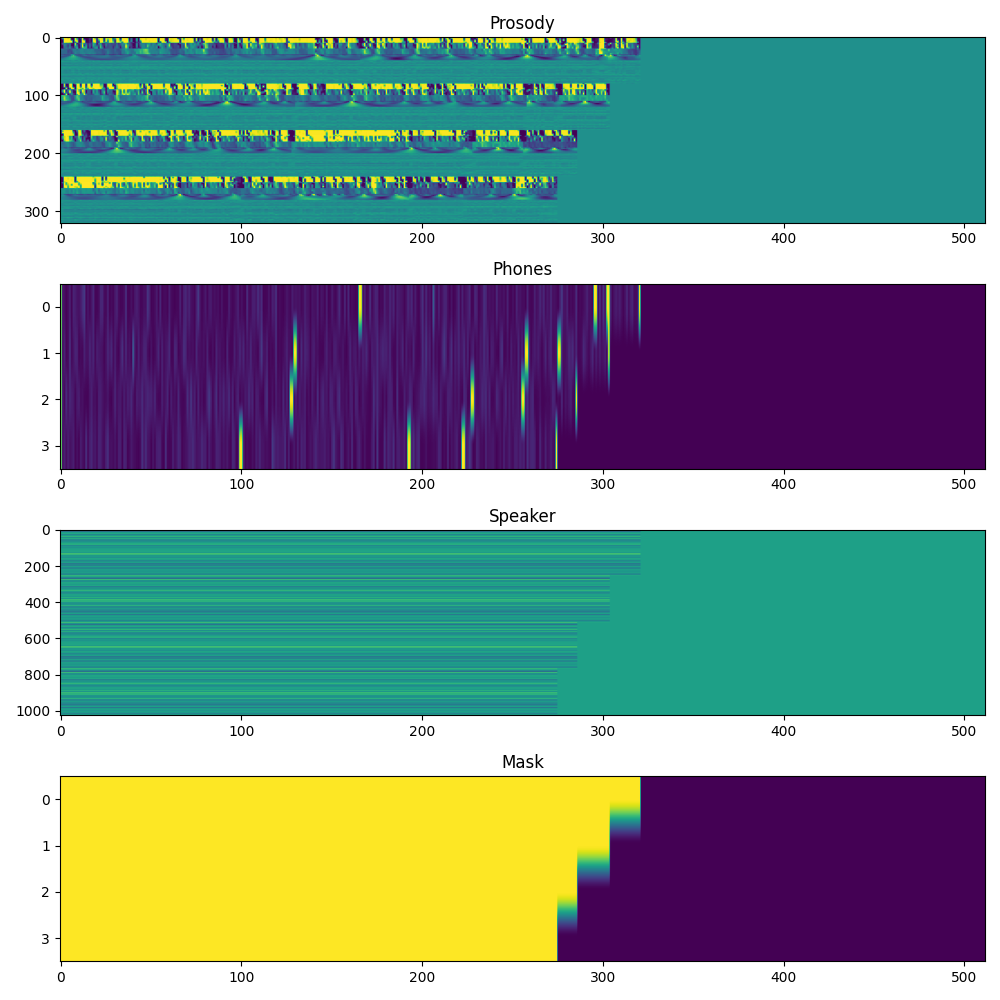
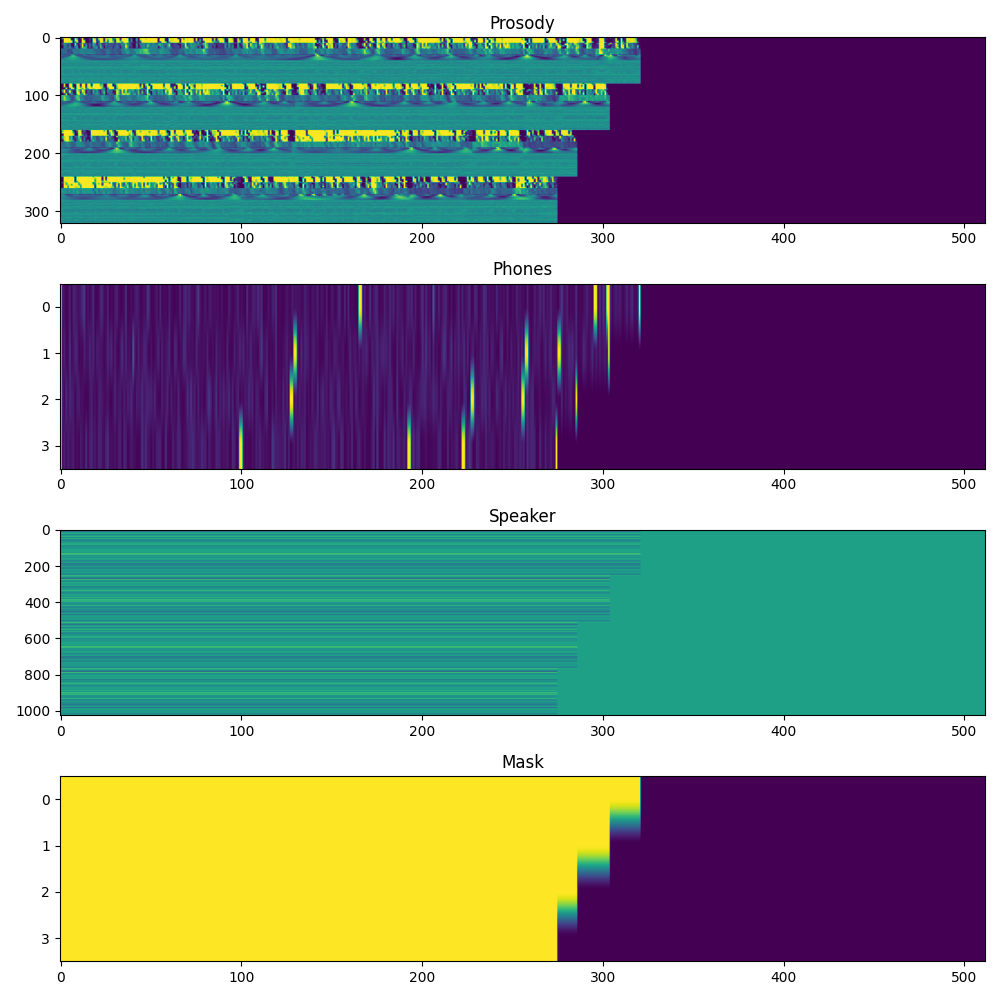
before big debug

Changed region(s): [[0.558, 0.031, 0.992, 0.248]]

diff --git a/scripts/train.py b/scripts/train.py
@@ -10,6 +10,7 @@ import torch
 from torch.utils.data import DataLoader
 from accelerate import Accelerator
 from transformers import get_linear_schedule_with_warmup, HfArgumentParser
+from diffusers.optimization import get_scheduler
 from datasets import load_dataset
 import torch.nn.functional as F
 
@@ -159,10 +160,12 @@ def train_epoch(epoch):
                     device=packed_prosody.device,
                 ).long()
                 noisy_ = noise_scheduler.add_noise(packed_prosody, noise, timesteps)
-                output = model(noisy_, timesteps, packed_phones, packed_speaker)
-                loss = F.mse_loss(output, packed_prosody, reduction="none")
+                output = model(
+                    noisy_, packed_mask, timesteps, packed_phones, packed_speaker
+                )
+                loss = F.mse_loss(output, noise, reduction="none")
                 loss = loss * packed_mask.unsqueeze(-1)
-                loss = loss.sum() / packed_mask.sum()
+                loss = loss.sum() / packed_mask.sum() / model_args.sample_size[-1]
             elif training_args.train_type == "decoder":
                 (
                     packed_prosody,
@@ -182,14 +185,15 @@ def train_epoch(epoch):
                 noisy_ = noise_scheduler.add_noise(packed_mel, noise, timesteps)
                 output = model(
                     noisy_,
+                    packed_mask,
                     timesteps,
                     packed_phones,
                     packed_speaker,
                     packed_prosody,
                 )
-                loss = F.mse_loss(output, packed_mel, reduction="none")
+                loss = F.mse_loss(output, noise, reduction="none")
                 loss = loss * packed_mask.unsqueeze(-1)
-                loss = loss.sum() / packed_mask.sum()
+                loss = loss.sum() / packed_mask.sum() / model_args.sample_size[-1]
             accelerator.backward(loss)
             accelerator.clip_grad_norm_(
                 model.parameters(), training_args.gradient_clip_val
@@ -250,14 +254,17 @@ def evaluate():
                     iter(val_dl)
                 )
                 bsz = packed_prosody.shape[0]
-                output = pipeline(packed_phones, packed_speaker, batch_size=bsz)
-                output = output * packed_mask.unsqueeze(-1).cpu()
+                output = pipeline(
+                    packed_phones, packed_speaker, batch_size=bsz, mask=packed_mask
+                )
+                # output = output * packed_mask.unsqueeze(-1).cpu()
                 fig, axes = plt.subplots(nrows=bsz, ncols=2, figsize=(10, 10))
                 for b in range(bsz):
                     axes[b][0].imshow(output[b][0].T)
                     axes[b][1].imshow(packed_prosody[b].cpu()[0].numpy().T)
                 plt.tight_layout()
                 plt.savefig("figures/current_val.png")
+                plt.close()
                 mse = F.mse_loss(torch.tensor(output), packed_prosody.cpu())
                 # log to wandb
                 wandb_log(
@@ -281,14 +288,16 @@ def evaluate():
                     packed_speaker,
                     packed_prosody,
                     batch_size=bsz,
+                    mask=packed_mask,
                 )
-                output = output * packed_mask.unsqueeze(-1).cpu()
+                # output = output * packed_mask.unsqueeze(-1).cpu()
                 fig, axes = plt.subplots(nrows=bsz, ncols=2, figsize=(10, 10))
                 for b in range(bsz):
                     axes[b][0].imshow(output[b][0].T)
                     axes[b][1].imshow(packed_mel[b].cpu()[0].numpy().T)
                 plt.tight_layout()
                 plt.savefig("figures/current_val.png")
+                plt.close()
                 mse = F.mse_loss(torch.tensor(output), packed_mel.cpu())
                 # log to wandb
                 wandb_log(
@@ -305,7 +314,7 @@ def evaluate_loss_only():
     model.eval()
     losses = []
     with torch.no_grad():
-        for batch in tqdm(val_dl, desc="val"):
+        for i, batch in tqdm(enumerate(val_dl), desc="val"):
             if training_args.train_type == "encoder":
                 packed_prosody, packed_phones, packed_speaker, packed_mask = batch
                 noise = torch.randn(packed_prosody.shape).to(packed_prosody.device)
@@ -317,10 +326,18 @@ def evaluate_loss_only():
                     device=packed_prosody.device,
                 ).long()
                 noisy_ = noise_scheduler.add_noise(packed_prosody, noise, timesteps)
-                output = model(noisy_, timesteps, packed_phones, packed_speaker)
-                loss = F.mse_loss(output, packed_prosody, reduction="none")
+                output = model(
+                    noisy_, packed_mask, timesteps, packed_phones, packed_speaker
+                )
+                loss = F.mse_loss(output, noise, reduction="none")
+                if i == 0:
+                    plt.imshow(output[0][0].T.cpu())
+                    plt.savefig("figures/val0.png")
+                    plt.imshow(noise[0][0].T.cpu())
+                    plt.savefig("figures/val1.png")
+                    plt.close()
                 loss = loss * packed_mask.unsqueeze(-1)
-                loss = loss.sum() / packed_mask.sum()
+                loss = loss.sum() / packed_mask.sum() / model_args.sample_size[-1]
             elif training_args.train_type == "decoder":
                 (
                     packed_prosody,
@@ -340,14 +357,20 @@ def evaluate_loss_only():
                 noisy_ = noise_scheduler.add_noise(packed_mel, noise, timesteps)
                 output = model(
                     noisy_,
+                    packed_mask,
                     timesteps,
                     packed_phones,
                     packed_speaker,
                     packed_prosody,
                 )
-                loss = F.mse_loss(output, packed_mel, reduction="none")
+                loss = F.mse_loss(output, noise, reduction="none")
+                if i == 0:
+                    plt.imshow(output[0][0].T.cpu())
+                    plt.savefig("figures/val0.png")
+                    plt.imshow(noise[0][0].T.cpu())
+                    plt.savefig("figures/val1.png")
                 loss = loss * packed_mask.unsqueeze(-1)
-                loss = loss.sum() / packed_mask.sum()
+                loss = loss.sum() / packed_mask.sum() / model_args.sample_size[-1]
             losses.append(loss.detach())
     loss = torch.mean(torch.tensor(losses)).item()
     wandb_log("val", {"loss": loss})
@@ -452,7 +475,10 @@ def main():
     # model
     model = UNet2DConditionModel(model_args)
     if training_args.load_from_checkpoint is not None:
-        model.from_pretrained(training_args.load_from_checkpoint)
+        console_print(
+            f"[green]load_from_checkpoint[/green]: {training_args.load_from_checkpoint}"
+        )
+        model = UNet2DConditionModel.from_pretrained(training_args.load_from_checkpoint)
     console_rule("Model")
     print_and_draw_model(pack_factor)
 
@@ -495,7 +521,7 @@ def main():
     # collator
     collator = get_collator(training_args, collator_args)
     collator_val = get_collator(training_args, collator_args)
-    collator_val.inference = True
+    # collator_val.inference = True
 
     # plot first batch
     if accelerator.is_main_process:
@@ -515,7 +541,7 @@ def main():
 
     val_dl = DataLoader(
         val_ds,
-        batch_size=training_args.batch_size,
+        batch_size=training_args.valid_batch_size,
         shuffle=False,
         collate_fn=collator_val,
     )
@@ -530,8 +556,13 @@ def main():
             num_warmup_steps=training_args.lr_warmup_steps,
             num_training_steps=training_args.n_steps,
         )
-    else:
-        raise NotImplementedError(f"{training_args.lr_schedule} not implemented")
+    elif training_args.lr_schedule == "cosine":
+        scheduler = get_scheduler(
+            training_args.lr_schedule,
+            optimizer=optimizer,
+            num_warmup_steps=training_args.lr_warmup_steps,
+            num_training_steps=training_args.n_steps,
+        )
 
     noise_scheduler = DDPMScheduler(
         num_train_timesteps=training_args.ddpm_num_steps,

diff --git a/model/pipeline.py b/model/pipeline.py
@@ -1,7 +1,7 @@
 import torch
 from diffusers.pipelines.pipeline_utils import DiffusionPipeline
 from diffusers.utils.torch_utils import randn_tensor
-import copy
+import imageio
 
 
 class DDPMPipeline(DiffusionPipeline):
@@ -39,6 +39,7 @@ class DDPMPipeline(DiffusionPipeline):
         speaker_cond_temporal=None,
         batch_size=1,
         generator=None,
+        mask=None,
     ):
         if isinstance(self.model_args.sample_size, int):
             image_shape = (
@@ -56,20 +57,25 @@ class DDPMPipeline(DiffusionPipeline):
 
         image = randn_tensor(image_shape, device=self._device, generator=generator)
 
+        all_images = []
+
         self.scheduler.set_timesteps(self.timesteps, device=self._device)
+
+        image = image.to(self._device)
+        phone_cond = phone_cond.to(self._device)
+        speaker_cond = speaker_cond.to(self._device)
+        if prosody_cond is not None:
+            prosody_cond = prosody_cond.to(self._device)
+        if speaker_cond_temporal is not None:
+            speaker_cond_temporal = speaker_cond_temporal.to(self._device)
+        mask = mask.to(self._device)
 
         for t in self.progress_bar(self.scheduler.timesteps):
             # 1. predict noise model_output
-            image = image.to(self._device)
-            phone_cond = phone_cond.to(self._device)
-            speaker_cond = speaker_cond.to(self._device)
-            if prosody_cond is not None:
-                prosody_cond = prosody_cond.to(self._device)
-            if speaker_cond_temporal is not None:
-                speaker_cond_temporal = speaker_cond_temporal.to(self._device)
             if self.model_args.model_type == "encoder":
                 model_output = self.unet(
                     image,
+                    mask,
                     t,
                     phone_cond,
                     speaker_cond,
@@ -77,6 +83,7 @@ class DDPMPipeline(DiffusionPipeline):
             elif self.model_args.model_type == "decoder":
                 model_output = self.unet(
                     image,
+                    mask,
                     t,
                     phone_cond,
                     speaker_cond,
@@ -84,10 +91,25 @@ class DDPMPipeline(DiffusionPipeline):
                     speaker_cond_temporal,
                 )
 
+            print(image[mask].min(), image[mask].max())
+
             # 2. compute previous image: x_t -> x_t-1
             image = self.scheduler.step(
                 model_output, t, image, generator=generator
             ).prev_sample
+
+            gif_image = image.clone().detach().cpu()[0]
+            # min-max normalize
+            gif_image = (gif_image - gif_image.min()) / (
+                gif_image.max() - gif_image.min()
+            )
+            gif_image = (gif_image * 255).type(torch.uint8)
+            gif_image = gif_image.squeeze(0).T
+            # flip y axis
+            gif_image = gif_image.flip(0)
+            all_images.append(gif_image)
+
+        imageio.mimsave("figures/diffusion_process.gif", all_images, duration=0.05)
 
         image = image.cpu()
 

diff --git a/model/unet_2d_condition.py b/model/unet_2d_condition.py
@@ -317,6 +317,7 @@ class UNet2DConditionModel(nn.Module):
     def forward(
         self,
         sample,
+        sample_mask,
         timesteps,
         phone_cond,
         speaker_cond,
@@ -325,6 +326,7 @@ class UNet2DConditionModel(nn.Module):
         encoder_hidden_states=None,
         encoder_attention_mask=None,
     ):
+        padding_mask = sample_mask.unsqueeze(-1)
         upsample_size = None
 
         if attention_mask is not None:
@@ -367,6 +369,8 @@ class UNet2DConditionModel(nn.Module):
         if self.time_embed_act is not None:
             emb = self.time_embed_act(emb)
 
+        sample = sample * padding_mask
+        cond = cond * padding_mask
         sample = self.conv_in(sample)
         cond = self.conv_in_cond(cond)
 
@@ -441,6 +445,7 @@ class UNet2DConditionModel(nn.Module):
             sample = self.conv_norm_out(sample)
             sample = self.conv_act(sample)
         sample = self.conv_out(sample)
+        sample = sample * padding_mask
 
         return sample
 
@@ -475,6 +480,7 @@ class UNet2DConditionModel(nn.Module):
         if self.args.model_type == "encoder":
             return [
                 torch.randn(1, 1, *self.sample_size),
+                torch.ones(1, 1, self.sample_size[0]),
                 torch.randint(0, 100, (1,)),
                 torch.randint(
                     0,
@@ -489,6 +495,7 @@ class UNet2DConditionModel(nn.Module):
         elif self.args.model_type == "decoder":
             return [
                 torch.randn(1, 1, *self.sample_size),
+                torch.ones(1, 1, self.sample_size[0]),
                 torch.randint(0, 100, (1,)),
                 torch.randn(1, self.sample_size[0], 256),
                 torch.randn(1, self.sample_size[0], 80),

diff --git a/configs/args.py b/configs/args.py
@@ -4,9 +4,9 @@ from typing import Optional, Tuple, Union
 
 @dataclass
 class TrainingArgs:
-    lr: float = 5e-5
-    lr_schedule: str = "linear_with_warmup"
-    lr_warmup_steps: int = 1000
+    lr: float = 1e-3
+    lr_schedule: str = "cosine"
+    lr_warmup_steps: int = 500
     gradient_clip_val: float = 1.0
     checkpoint_path: str = "checkpoints"
     output_path: str = "outputs"
@@ -18,8 +18,9 @@ class TrainingArgs:
     train_split: str = "train.other.500+train.clean.360+train.clean.100"
     speakers_in_validation: int = 100
     unseen_validation_split: str = "dev.other+dev.clean+test.other+test.clean"
-    n_steps: int = 500000
+    n_steps: int = 100000
     batch_size: int = 16
+    valid_batch_size: int = 16
     seed: int = 0
     dataset: str = "cdminix/librispeech-phones-and-mel"
     log_every_n_steps: int = 100
@@ -27,14 +28,14 @@ class TrainingArgs:
     do_save: bool = False
     save_onx: bool = False
     eval_only: bool = False
-    eval_every_n_steps: int = 1000
+    eval_every_n_steps: int = 100
     save_every_n_steps: int = 10000
     push_to_hub: bool = False
     hub_repo: str = None
     train_type: str = "encoder"
     ddpm_num_steps: int = 1000
-    ddpm_beta_schedule: str = "linear"
-    ddpm_num_steps_inference: int = 100
+    ddpm_beta_schedule: str = "sigmoid"
+    ddpm_num_steps_inference: int = 10
 
 
 @dataclass

diff --git a/configs/validation.py b/configs/validation.py
@@ -6,7 +6,7 @@ def validate_args(*args):
         if isinstance(arg, TrainingArgs):
             if arg.dataset not in ["cdminix/librispeech-phones-and-mel"]:
                 raise ValueError(f"dataset {arg.dataset} not supported")
-            if arg.lr_schedule not in ["linear_with_warmup"]:
+            if arg.lr_schedule not in ["linear_with_warmup", "cosine"]:
                 raise ValueError(f"lr_schedule {arg.lr_schedule} not supported")
             if arg.wandb_mode not in ["online", "offline"]:
                 raise ValueError(f"wandb_mode {arg.wandb_mode} not supported")

diff --git a/collators/default.py b/collators/default.py
@@ -37,7 +37,7 @@ class EncoderCollator:
         speaker = np.array(Image.open(item["speaker_utterance"]))
         prosody = np.concatenate((prosody, cwt_result, speaker), axis=0)
         # to float
-        prosody = (prosody.astype(np.float32) / 255.0 - 0.5).T
+        prosody = (prosody.astype(np.float32) / 255.0).T
         # speaker
         speaker = np.load(item["mean_speaker"])[np.newaxis, :]
         # repeat speaker to match prosody
